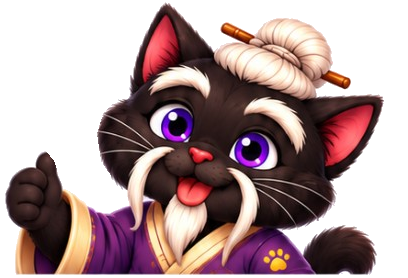
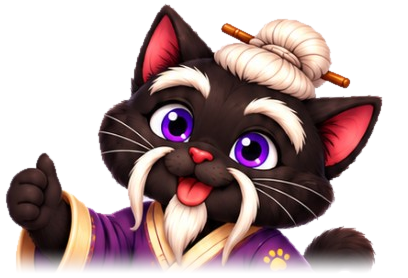
fix(web): conservar el gatito original con recorte transparente
Incluye el PNG final en el repositorio para usar los mismos píxeles en QA y publicación. Suaviza solo el borde inferior y elimina la regeneración de arte del workflow público.

diff --git a/web/public/web.css b/web/public/web.css
@@ -79,7 +79,7 @@ body{background:radial-gradient(ellipse at 86% 12%,#3b0c59 0,transparent 35%),#0
 @media(prefers-reduced-motion:reduce){.subject-grid a{transition:none}}
 
 /* The original Android cat artwork has a nonrectangular cutout: no framed image tile. */
-.hero-art>img{aspect-ratio:408/278;object-fit:contain;border:0;border-radius:0;box-shadow:none;background:transparent;filter:drop-shadow(0 0 24px #a329e15c)}
+.hero-art>img{aspect-ratio:408/278;object-fit:contain;border:0;border-radius:0;box-shadow:none;background:transparent;filter:drop-shadow(0 0 16px #a329e133)}
 .hero-art{background:transparent}
 @media(max-width:760px){.hero-art>img{max-height:310px;object-position:center}}
 
@@ -94,9 +94,6 @@ body{background:radial-gradient(ellipse at 86% 12%,#3b0c59 0,transparent 35%),#0
 .site-footer{background:#170a24}
 #account-status:not(:empty){background:#2c153c;color:var(--deep);border-color:var(--line)}
 .skip-link{background:#21102e;color:var(--deep)}
-
-/* A cutout uses the original 408 × 278 composition and never stretches. */
-.hero-art>img{aspect-ratio:408/278;object-fit:contain}
 
 /* Readable actions, secondary labels and disabled forms on the approved palette. */
 .primary-button,button:not(.secondary):not(.text-button){background:linear-gradient(135deg,#9424cc,#650cae);color:#fff}
@@ -124,14 +121,3 @@ body{background:radial-gradient(ellipse at 86% 12%,#3b0c59 0,transparent 35%),#0
  .account-footer{flex-wrap:wrap;gap:12px}
 }
 @media(prefers-reduced-motion:reduce){html{scroll-behavior:auto}}
-
-/* Landing mascot: soften the hard lower edge of the original cutout on all viewports. */
-.landing-hero .hero-art>img{-webkit-mask-image:linear-gradient(to bottom,#000 0%,#000 78%,transparent 100%);mask-image:linear-gradient(to bottom,#000 0%,#000 78%,transparent 100%)}
-
-/* Official mascot replaces the clipped rank artwork: show the complete source. */
-.landing-hero .hero-art>img[src$='gatito-sabio-oficial.png']{aspect-ratio:auto;max-height:440px;width:100%;object-fit:contain;object-position:center;-webkit-mask-image:none;mask-image:none;filter:none;border:0;box-shadow:none;background:transparent}
-@media(max-width:760px){.landing-hero .hero-art>img[src$='gatito-sabio-oficial.png']{max-height:310px;width:auto;max-width:100%;margin-inline:auto}}
-
-/* Original landing mascot: retain transparent cutout, soften only the lower matte. */
-.landing-hero .hero-art>img[src$='landing-cat-rank-cutout.png']{display:block;width:100%;height:auto;max-height:none;aspect-ratio:408/278;object-fit:contain;object-position:center;background:transparent;border:0;border-radius:0;box-shadow:none;filter:drop-shadow(0 0 16px #a329e133);-webkit-mask-image:linear-gradient(to bottom,#000 0%,#000 80%,transparent 99%);mask-image:linear-gradient(to bottom,#000 0%,#000 80%,transparent 99%)}
-@media(max-width:760px){.landing-hero .hero-art>img[src$='landing-cat-rank-cutout.png']{max-height:310px;width:100%;object-fit:contain}}

diff --git a/web/scripts/cutout-landing-cat.py b/web/scripts/cutout-landing-cat.py
@@ -4,7 +4,7 @@ No synthesis, resampling, or RGB edits. The original crop path is retained.
 from pathlib import Path
 from collections import deque
 import base64,io,json,hashlib,xml.etree.ElementTree as ET
-from PIL import Image,ImageDraw,ImageFilter
+from PIL import Image,ImageChops,ImageDraw,ImageFilter
 source=Path('assets/competition-cat-rank.svg');root=ET.parse(source).getroot()
 embedded=root.find('{http://www.w3.org/2000/svg}image').get('href')
 raw=base64.b64decode(embedded.split(',',1)[1]);original=Image.open(io.BytesIO(raw)).convert('RGB');w,h=original.size
@@ -43,10 +43,18 @@ for part in components:
         for x,y in part:alpha[x,y]=0
 # Remove the one-pixel pale matte fringe from the original screenshot edge.
 alpha=clip.filter(ImageFilter.MinFilter(3)).filter(ImageFilter.GaussianBlur(0.65))
+# The source crops the robe and tail at the bottom. Fade that edge in the
+# alpha channel so it stays soft at every display size and in every build.
+fade_start,fade_end=h-32,h-3
+fade=Image.new('L',(1,h),255)
+for y in range(fade_start,h):
+    opacity=max(0,(fade_end-y)/(fade_end-fade_start))
+    fade.putpixel((0,y),round(255*opacity**2*(3-2*opacity)))
+alpha=ImageChops.multiply(alpha,fade.resize((w,h),Image.Resampling.NEAREST))
 result=original.copy().convert('RGBA');result.putalpha(alpha)
 out=Path('web/public/assets/landing-cat-rank-cutout.png');out.parent.mkdir(parents=True,exist_ok=True);result.save(out,optimize=True)
 assert result.convert('RGB').tobytes()==original.tobytes(),'Original RGB must remain bit-for-bit identical'
-proof={'source':str(source),'sourceSha256':hashlib.sha256(source.read_bytes()).hexdigest(),'output':str(out),'size':[w,h],'rgbPreserved':True,'method':'original SVG crop and edge-connected pale-background mask, 1px inset and feather; no generation','transparentPixels':sum(a==0 for a in alpha.getdata()),'detachedBackgroundFragmentsRemoved':len(components)-1}
+proof={'source':str(source),'sourceSha256':hashlib.sha256(source.read_bytes()).hexdigest(),'output':str(out),'size':[w,h],'rgbPreserved':True,'method':'original SVG crop, edge-connected pale-background mask, 1px inset and lower-edge alpha fade','transparentPixels':alpha.histogram()[0],'detachedBackgroundFragmentsRemoved':len(components)-1}
 Path('web/reports/work3-20261110/art-verification.json').write_text(json.dumps(proof,indent=2)+'\n')
 
 print(json.dumps(proof))
